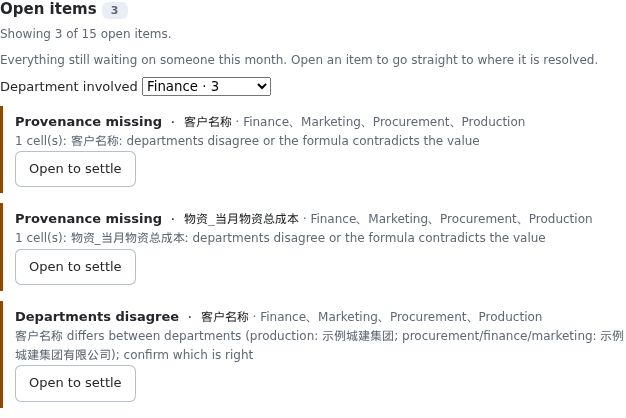
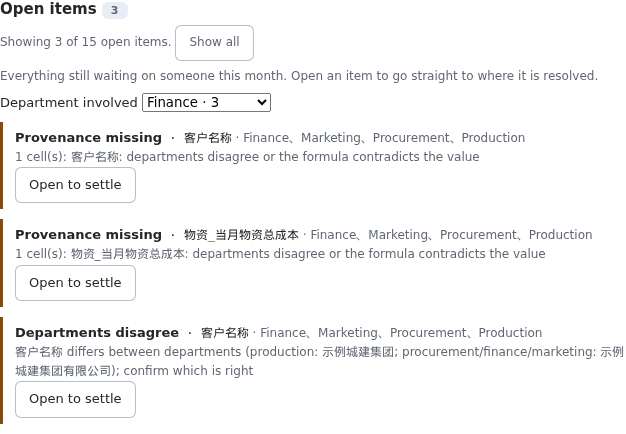
Make open-item failures recoverable and filtered emptiness clear

diff --git a/plugins/src/client/checklist.tsx b/plugins/src/client/checklist.tsx
@@ -27,6 +27,7 @@ export function OpenItemInbox({ period, batchId, focusSource = '', onClearFocus 
   { period: string; batchId: string; focusSource?: string; onClearFocus?: () => void }) {
   const { t, colon } = useUI()
   const [inbox, setInbox] = useState<Inbox | null>(null), [error, setError] = useState(''), [department, setDepartment] = useState('')
+  const [retry, setRetry] = useState(0)
   useEffect(() => {
     if (!period) return
     const controller = new AbortController()
@@ -35,26 +36,32 @@ export function OpenItemInbox({ period, batchId, focusSource = '', onClearFocus 
     void api<Inbox>(`/monthly/inbox?${query}`, { signal: controller.signal })
       .then(setInbox).catch(e => { if (!controller.signal.aborted) setError(describeError(e, t)) })
     return () => controller.abort()
-  }, [period, batchId, department])
+  }, [period, batchId, department, retry])
   if (!period) return null
-  if (error) return <p role="alert" className="bf-error">{error}</p>
+  if (error) return <section className="bf-inbox" aria-label={t('openItems')}>
+    <h3>{t('openItems')}</h3>
+    <p role="alert" className="bf-error">{t('inboxUnavailable')}</p>
+    <p className="bf-hint">{error}</p>
+    <button onClick={() => setRetry(value => value + 1)}>{t('refresh')}</button>
+  </section>
   if (!inbox) return <p role="status" className="bf-loading">{t('loading')}</p>
   // Only steps backed by an inbox source offer a focus action. A shared destination such as
   // "state" can cover unrelated facts and is not a safe filter key.
   const shown = focusSource ? inbox.items.filter(item => item.source === focusSource) : inbox.items
   const filtered = Boolean(focusSource || department)
+  const clearFilters = () => { setDepartment(''); onClearFocus?.() }
   return <section className="bf-inbox" aria-label={t('openItems')}>
     <h3>{t('openItems')} <span className="bf-badge">{shown.length}</span></h3>
-    {filtered && <p className="bf-hint" role="status">{t('inboxShowingOf').replace('{shown}', String(shown.length)).replace('{total}', String(inbox.total))}</p>}
+    {filtered && <p className="bf-hint" role="status">{t('inboxShowingOf').replace('{shown}', String(shown.length)).replace('{total}', String(inbox.total))} <button onClick={clearFilters}>{t('inboxClearFocus')}</button></p>}
     {focusSource
-      ? <p className="bf-hint" role="status">{t('inboxFocused')} <button onClick={() => onClearFocus?.()}>{t('inboxClearFocus')}</button></p>
+      ? <p className="bf-hint" role="status">{t('inboxFocused')}</p>
       : <p className="bf-hint">{t('openItemsHint')}</p>}
     <label>{t('inboxDepartmentFilter')} <select value={department} onChange={e => setDepartment(e.target.value)}>
       <option value="">{t('allDepartments')}</option>
       {Object.keys(inbox.by_department).map(name => <option key={name} value={name}>{t(name)} · {inbox.by_department[name]}</option>)}
     </select></label>
     {inbox.unreadable.map(reason => <p key={reason} className="bf-hint">{t('inboxUnreadable')}{colon}{reason}</p>)}
-    {!shown.length && <p className="bf-hint">{t('inboxEmpty')}</p>}
+    {!shown.length && <p className="bf-hint">{filtered && inbox.total > 0 ? t('inboxNoMatches') : t('inboxEmpty')}</p>}
     <ul>{shown.map(item => <li key={item.id}>
       <b>{t(`item_${item.kind}`) === `item_${item.kind}` ? item.kind : t(`item_${item.kind}`)}</b>
       {item.subject && <span className="bf-mono"> · {item.subject}</span>}

diff --git a/plugins/src/client/ui.ts b/plugins/src/client/ui.ts
@@ -330,6 +330,8 @@ const labels = {
   chartGapCell: ['该月无批次，不插值', 'No batch that month; not interpolated'], allDepartments: ['全部部门', 'All departments'],
   openItemsHint: ['本月还在等人处理的事项。点开一项，直接去处理它的地方。', 'Everything still waiting on someone this month. Open an item to go straight to where it is resolved.'],
   inboxEmpty: ['当前范围内没有待确认事项。', 'Nothing is waiting in this scope.'],
+  inboxUnavailable: ['待办暂时读不到，数量未知。请刷新重试。', 'Open items could not be loaded, so their count is unknown. Refresh to try again.'],
+  inboxNoMatches: ['当前筛选没有匹配的事项；本批次仍有待确认项。点「显示全部」查看。', 'No items match these filters. This batch still has open items; choose Show all to see them.'],
   inboxUnreadable: ['有一个来源读不到', 'One source could not be read'],
   openToSettle: ['打开处理', 'Open to settle'],
   item_master_disagreement: ['跨部门不一致', 'Departments disagree'],

diff --git a/docs/00-status.md b/docs/00-status.md
@@ -31,11 +31,11 @@
 
 **当前仍是待验收，不把上面的技术自评当成交付分数。** 新功能和新需求先暂停，只处理演示主路径的故障、错误表述及其回归。
 
-[PR #263](https://github.com/EricWang1358/BridgeFlow-AI/pull/263) 已合并；[main 测试、CD、公网健康检查和实例预检](https://github.com/EricWang1358/BridgeFlow-AI/actions/runs/35961749825)全部通过。合并后只读探测：主站返回 301、门户 `/health` 返回 200；门户 `/guest` 仍返回 404，`guest.` 子域名 TLS 握手失败。CD 已部署主站，独立访客入口尚未完成服务器装配。
+[PR #272](https://github.com/EricWang1358/BridgeFlow-AI/pull/272) 已合并；[main 测试、CD、公网健康检查和实例预检](https://github.com/EricWang1358/BridgeFlow-AI/actions/runs/35974805518)全部通过。合并后只读探测：门户 `/health` 返回 200、`/guest` 返回 404。CD 已部署主站，独立访客入口尚未完成服务器装配。
 
 | 闸门 | 当前证据与结论 |
 | --- | --- |
-| 本地离线主路径 | 在私有 dsh 上复跑员工身份的材料→候选→图→评分→会议→决策浏览器旅程、工作流、月结、四部门研判、报价、三套样例、冷重启、笔记本恢复、部门故障和 README 截图旅程，均通过。员工旅程最初被过期的浏览器测试夹具挡住：它仍写旧的 `users` ACL，且按旧界面查找折叠内容和流程节点；修复测试夹具后通过。评分图第 51 个候选标题的 API 回归与引导四象限完整可见性检查已补上并通过。三本样例的待办固定在各自批次，回开第一本仍显示自己的 15 条；趋势图的当前月端点也固定为正在看的批次。左侧来源、中央欢迎与任务页显示一致的案例问题，已载入样例不再要求重新导入；示例切换入口留在首屏，延迟批次响应时不会短暂显示旧批次来源，未就绪研判按钮及新笔记本创建时快速转向流转页也在浏览器中核对。复现：`BRIDGEFLOW_TEST_DISCOVERY=1 BRIDGEFLOW_TEST_EMPLOYEE=1 BRIDGEFLOW_LIVE=0 pnpm --dir plugins smoke:web`，以及 [交接文档中的其余命令](../HANDOFF.md)。测试模型是脚本化的，不能代替现场真实模型验收。 |
+| 本地离线主路径 | 在私有 dsh 上复跑员工身份的材料→候选→图→评分→会议→决策浏览器旅程、工作流、月结、四部门研判、报价、三套样例、冷重启、笔记本恢复、部门故障和 README 截图旅程，均通过。员工旅程最初被过期的浏览器测试夹具挡住：它仍写旧的 `users` ACL，且按旧界面查找折叠内容和流程节点；修复测试夹具后通过。评分图第 51 个候选标题的 API 回归与引导四象限完整可见性检查已补上并通过。三本样例的待办固定在各自批次，回开第一本仍显示自己的 15 条；趋势图的当前月端点也固定为正在看的批次。左侧来源、中央欢迎与任务页显示一致的案例问题，已载入样例不再要求重新导入；示例切换入口留在首屏，延迟批次响应时不会短暂显示旧批次来源，未就绪研判按钮及新笔记本创建时快速转向流转页也在浏览器中核对。最近一轮三案例旅程另覆盖待办筛选无匹配提示、503 后原筛选重试。复现：`BRIDGEFLOW_TEST_DISCOVERY=1 BRIDGEFLOW_TEST_EMPLOYEE=1 BRIDGEFLOW_LIVE=0 pnpm --dir plugins smoke:web`，以及 [交接文档中的其余命令](../HANDOFF.md)。测试模型是脚本化的，不能代替现场真实模型验收。 |
 | 代码回归 | 当前修复分支后端 754 条、插件 100 条全过，Ruff 与 TypeScript 通过；访客六类文件入口拒绝、内置样例仍可载入，Web 模型配置冲突会在启动前报错。样例浏览器旅程通过，包括访客来源、数据和立项页不再提供文件上传。门户 46 条沿用前轮验证；CI 以 PR 当前提交为准。 |
 | 负责人本机演示 | 3082 已重启；8000 后端健康为 200、3082 无会话为预期 401。14:28 批次 `fef1a34a8d00457b8cac70e9f380f76f` 的研判因旧 `hyper-charm` 路由缺少凭据而在工具前失败；检查笔记本时 dsh 自动续跑一次，同样在凭据处失败，无 `review_context` 或业务写入。现已对齐本机 Web 默认与 `env.sh`，并给该旧会话追加 `deepseek-official / deepseek/deepseek-v4.1-flash` 模型选择；没有重跑研判，不能声称成功或 partial 报告。此前新 Command Code 接口极小请求得到 `OK`、原生 dsh 单题正确先调用 `batch_summary`（55,625 token），但旧会话后续研判和负责人登录走查仍待手工验证。 |
 | 公网访客入口 | 独立访客实例代码已合入；2026-09-24 合并部署后只读探测：门户首页 200、`/guest` 404，`guest.<domain>` TLS 仍不可用。[服务器装配步骤](22-lightsail-deploy.md)中的 DNS、环境变量、服务与重置定时器仍待执行和验收。浏览器旅程验证了关闭 AI 时任务页、流转页的禁用与提示；访客打开样例后选择器会收起，使当前案例说明回到首屏。另在临时隔离 worktree 启动真实 `--guest` 进程，从其令牌入站，干净样例与流转样例均可浏览、相应模型按钮禁用且无页面错误。部署 preflight 新增启用 guest 后的入口、令牌和 TLS 条件检查；当前未启用 guest，条件检查仍无现场结果。该验证仍不等于公网验收。 |

diff --git a/HANDOFF.md b/HANDOFF.md
@@ -6,6 +6,7 @@
 
 ## 2026-09-24 交付前逐项打磨：评委看三本样例
 
+- **待办失败恢复与筛空提示**：待办接口若返回 503，任务页原先只剩错误文字，无法就地重试；现在保留待办面板，说明计数未知，并提供「刷新」，重试同一批次、同一筛选。部门与清单步骤组合后若没有匹配行，而批次仍有待办，改为明确提示筛选无匹配，并在计数旁提供「显示全部」一次清除两种筛选；全对样例的真正零待办仍显示原空状态。三案例浏览器旅程覆盖真实的[空交集](docs/evidence/demo-cases/case-core-no-filter-matches.png)、[503 后重试](docs/evidence/demo-cases/case-core-inbox-retry.png)和恢复计数；插件 100 条测试、类型检查与构建通过。
 - **待办筛选的数字与来源**：本月任务按部门筛选后，列表只剩几项，标题却仍显示全批次总数；现在显示当前条数及「显示 X / 全部 Y」，筛选标签改为「涉及部门」，说明共享事项也会被选中。清单中「自检通过 → 只看这几条」原来会筛出空列表，因为这一步没有待办来源；现在只给隔离行、总表问题这两个有对应来源的步骤提供该按钮，按来源而不是共用的目标页面筛选。三案例浏览器旅程检查财务 3/15、隔离行与总表聚焦、无来源步骤不出现按钮；[筛选截图](docs/evidence/demo-cases/case-core-filtered-inbox.png)留证。月结/结论旅程原来拿真实上传的 6 月给合成样例作基期，违背当前隔离规则；测试改导入样例自己的 5、6 月后通过。
 - **数据质量不能把未知报成零**：数据页过去在待办接口加载中或失败时，把四类质量计数全显示为 `0`；现在先显示破折号，失败时明确说“未知不是零”并可刷新重试。三案例浏览器旅程用延迟再返回 503 复现，检查未知状态、失败状态及重试后真实零值；[局部截图](docs/evidence/demo-cases/data-quality-unavailable.png)留证。中英文 README 的总表入口改成当前的「数据 → 本批次的数据质量 → 跨部门总表」，中文导览说明补上现有的立项到交接线路，并把样例状态写成「可发起研判」。构建、类型检查、插件 100 条、三案例及 README 截图旅程通过；14:28 的旧批次未重跑。
 - **总览第二处记录入口与评委说明**：空笔记本「每次运行的 token → 记录」仍误跳到「填报与流转」；现在和「最近的代理运行」一样直达记录页，浏览器回归覆盖两个入口。空笔记本总览改为说明数字属于整个工作区，避免把它们说成某个月的进展。中英文 README 同步纠正已撤下的“按部门过滤批次”说法，并写明公网 guest 尚未开放，避免无飞书账号的评委走进死路。构建、类型检查和三案例旅程通过；没有重跑 14:28 旧批次。
